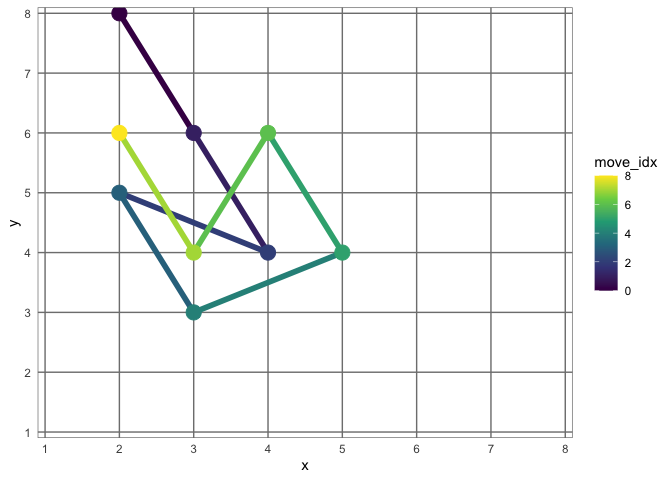
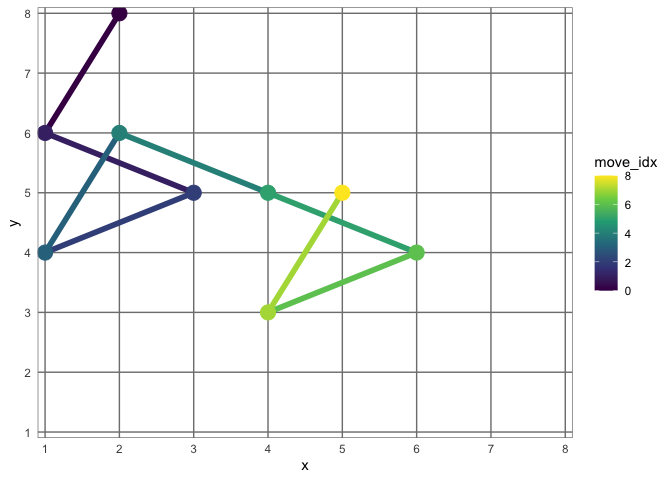
typo

diff --git a/2020-04-17_riddler-chess-mystery.md b/2020-04-17_riddler-chess-mystery.md
@@ -3,23 +3,12 @@ Riddler: Can You Solve The Chess Mystery?
 Joshua Cook
 4/17/2020
 
-``` r
-knitr::opts_chunk$set(echo = TRUE, comment = "#>")
-
-library(glue)
-library(tidygraph)
-library(ggraph)
-library(tidyverse)
-
-theme_set(theme_minimal())
-```
-
 ## Summary
 
 [*The Riddler*](https://fivethirtyeight.com/tag/the-riddler/) is a
 weekly puzzle provided by FiveThirtyEight. This week’s puzzle involves
 finding the path used by the knight to kill the opposing queen in a game
-of chess. Below, I show how I solved puzzle using two method: a
+of chess. Below, I show how I solved puzzle using two methods: a
 siumulation of the chessboard and by building a graph of the possible
 paths for the knight. The simulations were good, but not solution was
 found in the first attempt. Only after realizing a key insight could the
@@ -47,6 +36,17 @@ riddle be solved.
 (The
 [solution](https://fivethirtyeight.com/features/can-you-beat-the-goat-monty-hall-problem/)
 is available at the end of the following week’s Riddler.)
+
+``` r
+knitr::opts_chunk$set(echo = TRUE, comment = "#>")
+
+library(glue)
+library(tidygraph)
+library(ggraph)
+library(tidyverse)
+
+theme_set(theme_minimal())
+```
 
 ## Simulation method
 
@@ -258,14 +258,14 @@ play_round()
     #>   move_idx     x     y
     #>      <dbl> <dbl> <dbl>
     #> 1        0     2     8
-    #> 2        1     1     6
+    #> 2        1     3     6
     #> 3        2     2     4
     #> 4        3     4     5
-    #> 5        4     2     6
-    #> 6        5     3     4
-    #> 7        6     5     3
-    #> 8        7     6     5
-    #> 9        8     4     6
+    #> 5        4     3     3
+    #> 6        5     2     5
+    #> 7        6     1     3
+    #> 8        7     3     4
+    #> 9        8     1     5
 
 I also added a simple function to plot the path of the knight. Each step
 is labeled with its place in the sequence.
@@ -679,7 +679,7 @@ for (i in seq(1, n_max)) {
 print(path)
 ```
 
-    #> + 9/34 vertices, named, from ea7d697:
+    #> + 9/34 vertices, named, from e7f77ee:
     #> [1] 7,8 8,6 7,4 6,6 4,5 6,4 4,5 5,3 4,1
 
 ``` r
